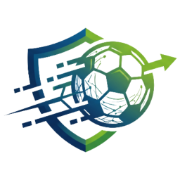
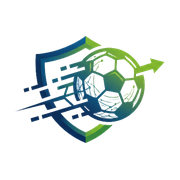
feat(marca): usar o símbolo oficial no site e nos ícones do app
O pacote de ícones enviado em public/ era o único ativo de marca real; o resto
ainda eram esboços com \`<!-- PLACEHOLDER -->\`.

- Símbolo recortado do ícone de 512px (sem a margem transparente) em 192px e
  @2x de 384px; o nome "NextGen" passa a ser texto, não imagem.
- \`BrandLogo\` compõe símbolo + nome com uma leitura só para leitor de tela.
- \`metadata.icons\`, \`viewport.themeColor\`, \`appleWebApp\` e manifest
  publicados no layout raiz; \`site.webmanifest\` deixa de ter nome vazio e
  tema branco.
- \`apple-touch-icon.png\` recomposto com fundo opaco: transparente vira preto
  no iOS.
- SVGs placeholder de \`brand/\` removidos, doc 15 e testes atualizados.

Changed region(s): [[0.0278, 0.1389, 1.0, 0.8611]]

diff --git a/apps/web/components/brand-logo.tsx b/apps/web/components/brand-logo.tsx
@@ -1,33 +1,45 @@
-import { brandAsset, type BrandVariant, type Surface } from "@/lib/brand";
+import { BRAND_NAME, MARK, MARK_2X, type BrandVariant } from "@/lib/brand";
 
 type Props = {
   variant?: BrandVariant;
-  surface?: Surface;
-  /** Altura em pixels. A largura sai da proporção do arquivo. */
+  /** Altura do símbolo em pixels. A largura sai da proporção do arquivo. */
   height?: number;
   className?: string;
 };
 
 /**
- * A marca em todas as telas. Usa `<img>` e não `next/image` porque o otimizador recusa
- * SVG sem `dangerouslyAllowSVG` global — flag que vale para toda imagem do site, e não
- * se paga para servir cinco SVGs próprios que já são pequenos e escaláveis.
+ * A marca em todas as telas: símbolo + nome.
+ *
+ * O nome é texto e não imagem, então acompanha a fonte do site e não borra ao ampliar.
+ * `alt` fica no conjunto, com o texto marcado `aria-hidden`: quem usa leitor de tela ouve
+ * "NextGen" uma vez, não duas.
  */
-export function BrandLogo({ variant = "full", surface = "light", height = 28, className }: Props) {
-  const asset = brandAsset(variant, surface);
+export function BrandLogo({ variant = "full", height = 28, className }: Props) {
+  const showSymbol = variant !== "wordmark";
+  const showName = variant !== "mark";
 
   return (
-    <img
-      src={asset.src}
-      alt={asset.alt}
-      height={height}
-      width={Math.round(height * asset.ratio)}
-      className={className}
-      data-brand={variant}
-      decoding="async"
-      // Logo acima da dobra: esperar o JS atrasaria a pintura do cabeçalho.
-      fetchPriority="high"
-      style={{ display: "block", height, width: "auto" }}
-    />
+    <span className={`brand-lockup${className ? ` ${className}` : ""}`} data-brand={variant}>
+      {showSymbol ? (
+        <img
+          src={MARK.src}
+          srcSet={`${MARK.src} 1x, ${MARK_2X} 2x`}
+          alt={showName ? "" : MARK.alt}
+          aria-hidden={showName ? true : undefined}
+          height={height}
+          width={Math.round(height * MARK.ratio)}
+          decoding="async"
+          // Logo acima da dobra: esperar o JS atrasaria a pintura do cabeçalho.
+          fetchPriority="high"
+          style={{ display: "block", height, width: "auto" }}
+        />
+      ) : null}
+
+      {showName ? (
+        <span className="brand-wordmark" aria-hidden={showSymbol ? true : undefined}>
+          {BRAND_NAME}
+        </span>
+      ) : null}
+    </span>
   );
 }

diff --git a/apps/web/lib/brand.ts b/apps/web/lib/brand.ts
@@ -4,35 +4,44 @@
  * Os componentes não conhecem caminho de arquivo: pedem uma variante e recebem o caminho.
  * Assim, trocar o logo é substituir um arquivo; trocar de nome é editar este manifesto; e
  * nenhuma tela precisa ser tocada nos dois casos.
+ *
+ * O símbolo é o único ativo raster do produto: chegou como PNG (não existe vetor) e é
+ * servido em duas densidades. O nome "NextGen" é texto, não imagem — acompanha a fonte da
+ * interface e continua nítido em qualquer zoom.
  */
 
 export type BrandVariant = "full" | "mark" | "wordmark";
+/** Só o logo do desenvolvedor muda com o fundo; o símbolo do produto não. */
 export type Surface = "light" | "dark";
 
-type Asset = {
+export type Asset = {
   src: string;
-  /** Proporção largura/altura do viewBox — usada para reservar espaço e evitar salto. */
+  /** Proporção largura/altura do arquivo — usada para reservar espaço e evitar salto. */
   ratio: number;
   alt: string;
 };
 
-const LOGO: Asset = { src: "/brand/logo.svg", ratio: 168 / 40, alt: "NextGen" };
-const LOGO_LIGHT: Asset = { src: "/brand/logo-light.svg", ratio: 168 / 40, alt: "NextGen" };
-const MARK: Asset = { src: "/brand/mark.svg", ratio: 1, alt: "NextGen" };
-const WORDMARK: Asset = { src: "/brand/wordmark.svg", ratio: 168 / 40, alt: "NextGen" };
+/** Recorte do ícone de 512px, sem a margem transparente. */
+export const MARK: Asset = { src: "/brand/mark.png", ratio: 494 / 354, alt: "NextGen" };
+export const MARK_2X = "/brand/mark@2x.png";
+
+export const BRAND_NAME = "NextGen";
+/** Verde profundo da paleta, o mesmo usado em `theme-color`. */
+export const BRAND_COLOR = "#10331f";
 
 /**
- * `undefined` quando a variante não muda com o fundo — repetir o caminho seria duplicar a
- * mesma informação em dois lugares.
+ * Favicon e manifest.
+ *
+ * O navegador pede `/favicon.ico` mesmo sem `<link>`, então esse nome é fixo. Os demais
+ * entram pelo `metadata` do layout raiz.
  */
-export function brandAsset(variant: BrandVariant, surface: Surface = "light"): Asset {
-  if (variant === "mark") return MARK;
-  if (variant === "wordmark") return WORDMARK;
-
-  return surface === "dark" ? LOGO_LIGHT : LOGO;
-}
-
-export const FAVICON = "/brand/icon.svg";
+export const FAVICONS = {
+  ico: "/favicon.ico",
+  png32: "/favicon-32x32.png",
+  png16: "/favicon-16x16.png",
+  apple: "/apple-touch-icon.png",
+  manifest: "/site.webmanifest",
+} as const;
 
 /**
  * Assinatura do desenvolvedor.

diff --git a/apps/web/lib/brand.test.ts b/apps/web/lib/brand.test.ts
@@ -1,7 +1,7 @@
 import { existsSync } from "node:fs";
 import path from "node:path";
 import { describe, expect, it } from "vitest";
-import { DEV_CREDIT, brandAsset, devLogo, skillIconPath } from "./brand";
+import { DEV_CREDIT, FAVICONS, MARK, MARK_2X, devLogo, skillIconPath } from "./brand";
 
 const publicDir = path.join(__dirname, "..", "public");
 
@@ -9,26 +9,23 @@ function exists(publicPath: string) {
   return existsSync(path.join(publicDir, publicPath.replace(/^\//, "")));
 }
 
-describe("brandAsset", () => {
-  it("aponta para um arquivo que existe", () => {
-    for (const variant of ["full", "mark", "wordmark"] as const) {
-      for (const surface of ["light", "dark"] as const) {
-        expect(exists(brandAsset(variant, surface).src)).toBe(true);
-      }
+describe("MARK", () => {
+  it("aponta para o arquivo nas duas densidades", () => {
+    expect(exists(MARK.src)).toBe(true);
+    expect(exists(MARK_2X)).toBe(true);
+  });
+
+  it("declara a proporção real do recorte, para o cabeçalho não pular", () => {
+    expect(MARK.ratio).toBeGreaterThan(1);
+    expect(MARK.ratio).toBeLessThan(2);
+  });
+});
+
+describe("FAVICONS", () => {
+  it("todo arquivo do pacote de ícones existe", () => {
+    for (const publicPath of Object.values(FAVICONS)) {
+      expect(exists(publicPath), publicPath).toBe(true);
     }
-  });
-
-  it("troca o arquivo no fundo escuro, onde o texto escuro sumiria", () => {
-    expect(brandAsset("full", "dark").src).not.toBe(brandAsset("full", "light").src);
-  });
-
-  it("mantém o mesmo símbolo nas duas superfícies", () => {
-    expect(brandAsset("mark", "dark").src).toBe(brandAsset("mark", "light").src);
-  });
-
-  it("reserva a proporção do arquivo para o layout não pular", () => {
-    expect(brandAsset("mark").ratio).toBe(1);
-    expect(brandAsset("full").ratio).toBeGreaterThan(1);
   });
 });
 

diff --git a/apps/web/app/layout.tsx b/apps/web/app/layout.tsx
@@ -1,10 +1,40 @@
-import type { Metadata } from "next";
+import type { Metadata, Viewport } from "next";
+import { BRAND_COLOR, BRAND_NAME, FAVICONS } from "@/lib/brand";
 import "./globals.css";
 
+const DESCRIPTION =
+  "Matrícula, pedagogia, avaliação e financeiro em um só lugar, com consentimento e proteção de dados desde o primeiro dia.";
+
 export const metadata: Metadata = {
-  title: "NextGen — gestão de escola de futebol",
-  description:
-    "Matrícula, pedagogia, avaliação e financeiro em um só lugar, com consentimento e proteção de dados desde o primeiro dia.",
+  title: `${BRAND_NAME} — gestão de escola de futebol`,
+  description: DESCRIPTION,
+  applicationName: BRAND_NAME,
+  manifest: FAVICONS.manifest,
+  icons: {
+    icon: [
+      { url: FAVICONS.png32, sizes: "32x32", type: "image/png" },
+      { url: FAVICONS.png16, sizes: "16x16", type: "image/png" },
+      { url: FAVICONS.ico, sizes: "any" },
+    ],
+    shortcut: FAVICONS.ico,
+    apple: FAVICONS.apple,
+  },
+  appleWebApp: {
+    capable: true,
+    title: BRAND_NAME,
+    statusBarStyle: "default",
+  },
+  openGraph: {
+    siteName: BRAND_NAME,
+    title: `${BRAND_NAME} — gestão de escola de futebol`,
+    description: DESCRIPTION,
+    locale: "pt_BR",
+    type: "website",
+  },
+};
+
+export const viewport: Viewport = {
+  themeColor: BRAND_COLOR,
 };
 
 export default function RootLayout({ children }: { children: React.ReactNode }) {

diff --git a/apps/web/app/globals.css b/apps/web/app/globals.css
@@ -43,6 +43,9 @@ a { color: inherit; }
 
 .brand { display: flex; align-items: center; gap: 10px; font-weight: 700; letter-spacing: -0.02em; }
 
+.brand-lockup { display: inline-flex; align-items: center; gap: 8px; font-weight: 700; letter-spacing: -0.02em; }
+.brand-wordmark { font-size: 1.05em; line-height: 1; }
+
 .brand-mark {
   width: 28px; height: 28px; border-radius: 8px;
   background: var(--brand); color: var(--accent);

diff --git a/docs/15-marca-e-ativos.md b/docs/15-marca-e-ativos.md
@@ -5,18 +5,22 @@ site, sem tocar em código.
 
 ```
 public/
-├── brand/          identidade do produto (NextGen)
-│   ├── logo.svg           lockup horizontal, fundo claro
-│   ├── logo-light.svg     mesmo lockup, fundo escuro
-│   ├── mark.svg           só o símbolo (avatar, app icon, cabeçalho estreito)
-│   ├── wordmark.svg       só o nome (rodapé, e-mail, assinatura)
-│   └── icon.svg           favicon; o Next publica como /icon.svg
+├── brand/
+│   ├── mark.png           símbolo oficial, largura 192px
+│   └── mark@2x.png        mesmo símbolo, largura 384px
 ├── icons/
 │   ├── ui/                ícones de interface (ações, navegação)
 │   └── skills/            um por atributo do card, nomeado pelo código
-└── dev/            logo do desenvolvedor (Autoric)
-    ├── logo-dev.svg       fundo claro
-    └── logo-dev-light.svg fundo escuro
+├── dev/                   logo do desenvolvedor (Autoric)
+│   ├── logo-dev.svg       fundo claro
+│   └── logo-dev-light.svg fundo escuro
+├── favicon.ico            pedido pelo navegador mesmo sem <link>
+├── favicon-16x16.png
+├── favicon-32x32.png
+├── apple-touch-icon.png   fundo opaco: o iOS pinta preto atrás de PNG transparente
+├── android-chrome-192x192.png
+├── android-chrome-512x512.png
+└── site.webmanifest       nome, cor de tema e os dois ícones de instalação
 ```
 
 ## Regras
@@ -25,17 +29,24 @@ public/
 quebra o site; substituir o conteúdo não quebra nada. Se precisar de outro nome, adicione ao
 manifesto — não espalhe o caminho pelo código.
 
-**Assinatura visual.** Os SVGs atuais são esboços funcionais (`<!-- PLACEHOLDER -->` no
-arquivo). Substitua pelo oficial mantendo nome e proporção: a altura é definida pelo
-componente, então um logo com proporção muito diferente fica esticado.
+**A marca é símbolo + texto.** Só o símbolo é imagem. O nome "NextGen" é renderizado como
+texto em `components/brand-logo.tsx`, então acompanha a fonte da interface, não borra ao
+ampliar e não precisa de uma versão por densidade.
 
-**SVG primeiro, raster depois.** SVG escala sem borrar e pesa poucos KB. Use PNG só se o
-original não existir em vetor, e nesse caso gere em `@2x` (ex.: `logo@2x.png`) mantendo o
-PNG base com o nome do SVG que ele substitui.
+**SVG primeiro, raster quando não houver vetor.** O símbolo chegou como PNG; ele é o único
+ativo raster do produto. O arquivo base foi recortado do ícone de 512px (sem a margem
+transparente) e reduzido para 192px de largura; o `@2x` tem 384px. Se o vetor aparecer,
+basta salvar `mark.svg`, apontar `MARK` para ele em `brand.ts` e apagar os PNGs — nenhum
+componente muda.
 
-**Cores vêm dos tokens.** Os arquivos usam as cores fixas `#10331f` (verde profundo) e
-`#c9f24d` (lima), porque SVG carregado por `<img>` não enxerga variável CSS. Se a paleta da
-escola mudar em `globals.css`, os logos precisam ser regerados.
+**O favicon não é o card.** Os tamanhos 16 e 32 são gerados do mesmo arquivo mestre; como o
+símbolo é largo, nos tamanhos pequenos ele fica com pouca margem. Se a marca mudar, gere o
+pacote de novo a partir do vetor.
+
+**Cores.** O símbolo usa as cores do arquivo original (azul `#0e305b` e verde `#80b235`),
+porque imagem carregada por `<img>` não enxerga variável CSS. Os tokens de interface
+(`--brand`, `--accent` em `globals.css`) ainda são os do esboço: unificar as duas paletas é
+uma decisão de marca, não um ajuste de código.
 
 ## Ícones de habilidade
 
@@ -53,7 +64,8 @@ Aparece no rodapé, ligado a `https://www.autoric.com.br`. O vínculo é declara
 | Peça | Onde | Responsabilidade |
 |---|---|---|
 | caminhos e proporções | `apps/web/lib/brand.ts` | único lugar que sabe o nome de um arquivo |
-| desenho da marca | `apps/web/components/brand-logo.tsx` | escolhe variante e superfície, nada mais |
+| marca (símbolo + nome) | `apps/web/components/brand-logo.tsx` | escolhe variante e desenha |
+| favicon e manifest | `apps/web/app/layout.tsx` | publica `metadata.icons` e `viewport.themeColor` |
 | assinatura do dev | `apps/web/components/site-footer.tsx` | rodapé com link para a Autoric |
 | ícone de atributo | `apps/web/components/skill-icon.tsx` | usa o arquivo se existir, senão o código |
 

diff --git a/.openhands/memory/MEMORY.md b/.openhands/memory/MEMORY.md
@@ -81,3 +81,10 @@
 - **Card do aluno**: `components/player-card.tsx` com `variant="internal" | "public"`.
   `<12 anos` nunca mostra nota (`canShowCardRating`); comportamento só na interna; a landing
   usa a pública. Seed de demo: `pnpm db:seed:demo` (id fixo `01940000-…`).
+- **Marca**: o dono enviou o pacote de ícones (favicon/apple/android + `site.webmanifest`)
+  por upload no GitHub. O símbolo é raster (não há vetor): `brand/mark.png` (192px) e
+  `@2x.png` (384px) foram **recortados do ícone 512px** (bbox 11,79–505,433). O nome
+  "NextGen" é texto em `brand-logo.tsx`, não imagem; os SVGs placeholder de `brand/` foram
+  apagados. `apple-touch-icon.png` foi recomposto com fundo branco opaco (iOS pinta preto
+  atrás de PNG transparente). Paleta do logo = azul `#0e305b` + verde `#80b235`; os tokens
+  `--brand #10331f` / `--accent #c9f24d` ainda são os do esboço (mismatch pendente).
